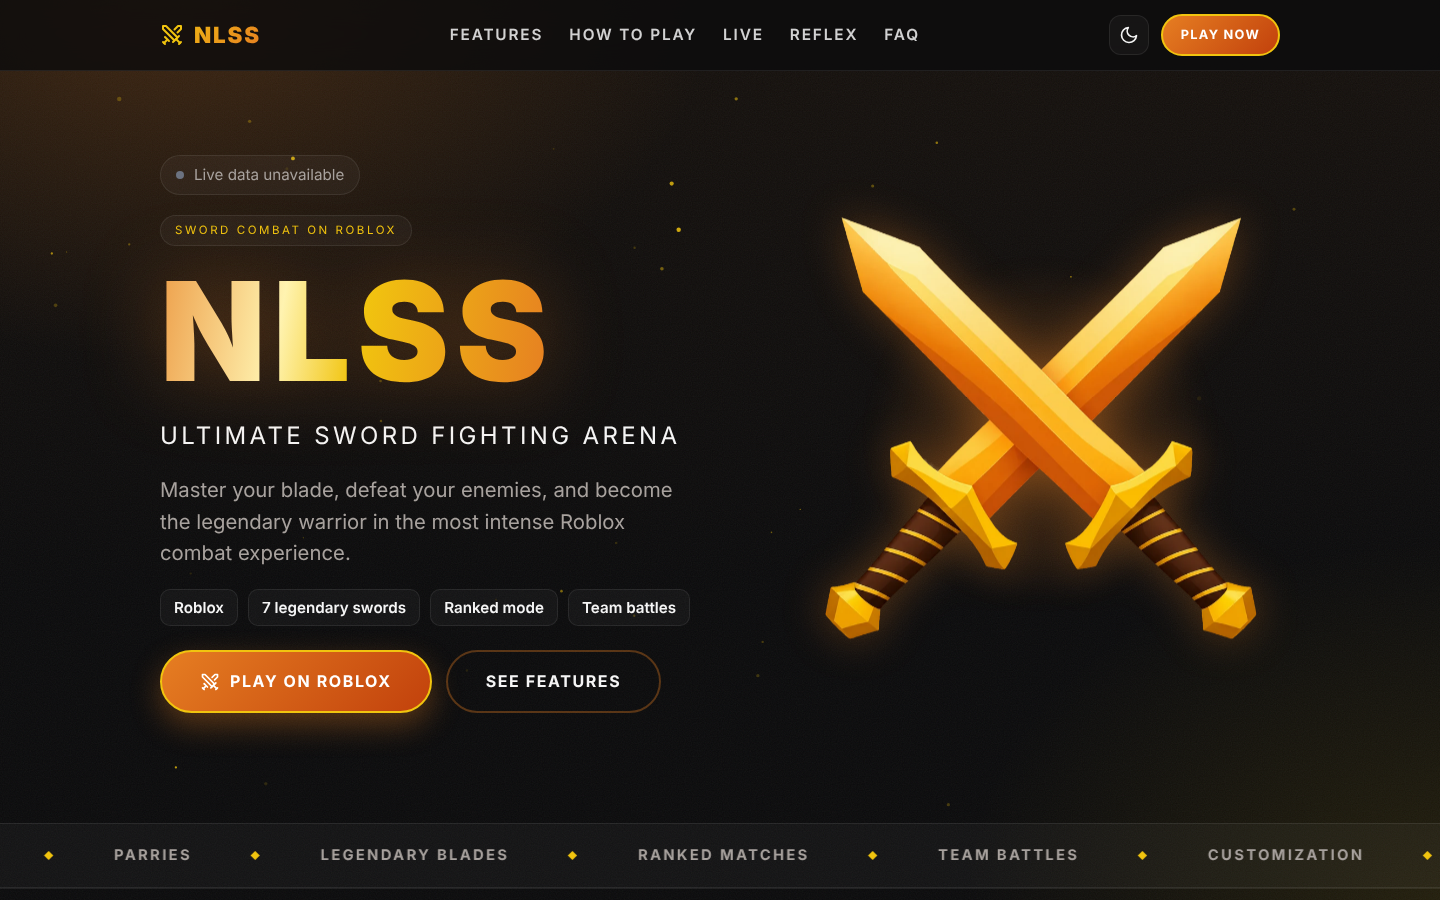
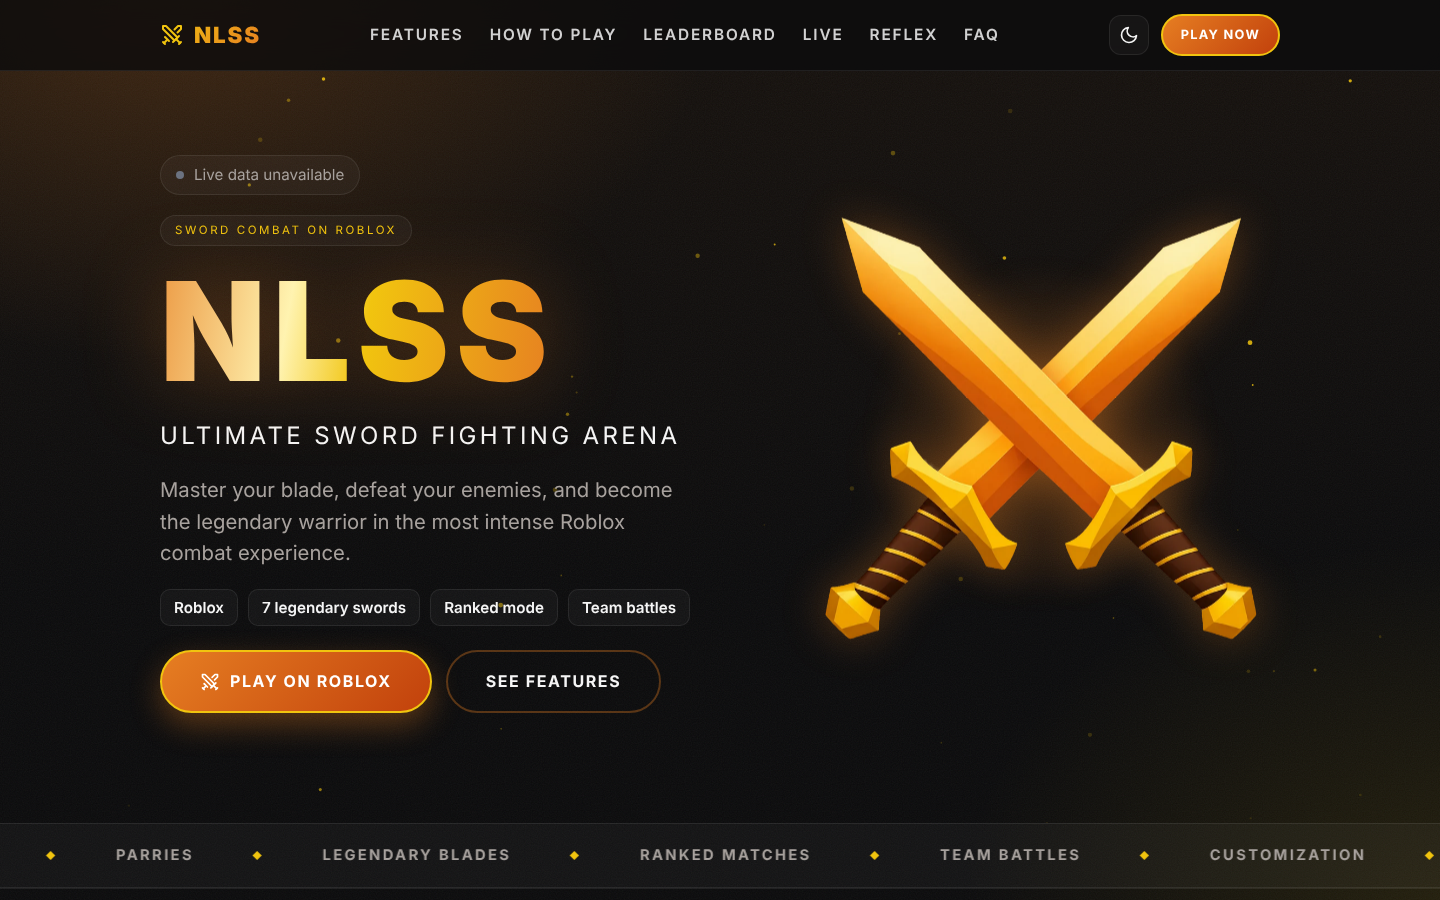
Add leaderboard for strength, kills and rebirths
- Three tabs (keyboard arrows, Home/End supported); each shows the top
  100 in a scrollable list with rank highlights for the top three
- No rankings are published yet, so the page shows an honest empty
  state. Fill the inline INLINE_RANKINGS object or set LEADERBOARD_URL
  to a JSON feed with the same shape
- ?demo=1 previews the design with clearly labelled sample data
- Rows are built with textContent, so names can't inject markup
- Nav collapses to the menu below 1180px so six links fit on one row

diff --git a/_archive/nlss_website_final.html b/_archive/nlss_website_final.html
@@ -793,15 +793,135 @@
     .js .reveal { opacity: 0; transform: translateY(20px); transition: opacity 0.7s ease, transform 0.7s ease; }
     .js .reveal.in { opacity: 1; transform: none; }
 
+    /* ---------- Leaderboard ---------- */
+    .nav a { white-space: nowrap; }
+    .board-panel {
+      max-width: 880px;
+      margin: 0 auto;
+      padding: 26px;
+      border-radius: var(--radius);
+      border: 1px solid var(--line-soft);
+      background: var(--panel);
+      box-shadow: var(--card-shadow);
+    }
+    .board-top {
+      display: flex;
+      flex-wrap: wrap;
+      align-items: center;
+      justify-content: space-between;
+      gap: 16px;
+      margin-bottom: 20px;
+    }
+    .tabs {
+      display: inline-flex;
+      gap: 4px;
+      padding: 5px;
+      border-radius: 999px;
+      border: 1px solid var(--line-soft);
+      background: var(--ink);
+    }
+    .tab {
+      padding: 9px 18px;
+      border: 0;
+      border-radius: 999px;
+      background: transparent;
+      color: var(--muted);
+      font-family: var(--display);
+      font-size: 0.74rem;
+      font-weight: 700;
+      letter-spacing: 0.12em;
+      text-transform: uppercase;
+      cursor: pointer;
+      transition: background 0.2s, color 0.2s;
+    }
+    .tab:hover { color: var(--text); }
+    .tab[aria-selected="true"] {
+      background: linear-gradient(135deg, var(--orange), var(--orange-deep));
+      color: #fff;
+      box-shadow: 0 8px 20px var(--glow);
+    }
+    .board-meta { font-size: 0.92rem; color: var(--muted); }
+    .demo-badge {
+      display: inline-block;
+      padding: 3px 10px;
+      border-radius: 999px;
+      background: rgba(239, 68, 68, 0.15);
+      color: #ef4444;
+      font-size: 0.78rem;
+      letter-spacing: 0.08em;
+      text-transform: uppercase;
+    }
+    .board-scroll {
+      max-height: 560px;
+      overflow-y: auto;
+      padding: 2px 8px 2px 2px;
+      scrollbar-width: thin;
+      scrollbar-color: var(--line) transparent;
+    }
+    .board { list-style: none; display: grid; gap: 10px; }
+    .board li {
+      display: grid;
+      grid-template-columns: 48px minmax(0, 1fr) auto;
+      align-items: center;
+      gap: 14px;
+      padding: 12px 18px;
+      border-radius: 14px;
+      border: 1px solid var(--line-soft);
+      background: var(--ink-2);
+    }
+    .board li.top-1 { border-color: rgba(241, 196, 15, 0.45); }
+    .rank span {
+      display: grid;
+      place-items: center;
+      width: 36px;
+      height: 36px;
+      border-radius: 50%;
+      background: var(--panel-hover);
+      color: var(--muted);
+      font-family: var(--display);
+      font-weight: 900;
+      font-size: 0.9rem;
+    }
+    .top-1 .rank span { background: linear-gradient(135deg, #fde68a, #f59e0b); color: #111; }
+    .top-2 .rank span { background: linear-gradient(135deg, #f3f4f6, #9ca3af); color: #111; }
+    .top-3 .rank span { background: linear-gradient(135deg, #fcd9b6, #c2410c); color: #111; }
+    .board .name {
+      min-width: 0;
+      overflow: hidden;
+      text-overflow: ellipsis;
+      white-space: nowrap;
+      font-weight: 700;
+      font-size: 1.1rem;
+    }
+    .board .value {
+      font-family: var(--display);
+      font-weight: 700;
+      font-variant-numeric: tabular-nums;
+      color: var(--accent-text);
+    }
+    .board-status { padding: 46px 12px; text-align: center; color: var(--muted); font-size: 1.05rem; }
+    .board-status[hidden] { display: none; }
+    @media (max-width: 620px) {
+      .board-panel { padding: 18px; }
+      .tabs { display: flex; width: 100%; }
+      .tab { flex: 1; padding: 9px 6px; font-size: 0.68rem; letter-spacing: 0.06em; }
+      .board-scroll { max-height: 480px; }
+      .board li { grid-template-columns: 40px minmax(0, 1fr) auto; gap: 10px; padding: 10px 12px; }
+      .rank span { width: 32px; height: 32px; }
+      .board .name { font-size: 1rem; }
+    }
+
     /* ---------- Responsive ---------- */
     @media (max-width: 1100px) {
       .nav { gap: 20px; }
       .nav a { font-size: 0.88rem; letter-spacing: 0.1em; }
     }
-    @media (max-width: 980px) {
+    @media (max-width: 1180px) {
       .nav { display: none; }
       .menu-btn { display: grid; }
       .mobile-nav:not([hidden]) { display: flex; }
+    }
+    @media (max-width: 980px) {
       .hero-grid { grid-template-columns: 1fr; text-align: center; gap: 40px; }
       .hero-copy { justify-items: center; }
       .chips, .hero-actions { justify-content: center; }
@@ -873,6 +993,7 @@
       <nav class="nav" aria-label="Primary">
         <a href="#features">Features</a>
         <a href="#how">How to play</a>
+        <a href="#leaderboard">Leaderboard</a>
         <a href="#stats">Live</a>
         <a href="#play">Reflex</a>
         <a href="#faq">FAQ</a>
@@ -891,6 +1012,7 @@
     <nav class="mobile-nav" id="mobile-nav" aria-label="Mobile" hidden>
       <a href="#features">Features</a>
       <a href="#how">How to play</a>
+      <a href="#leaderboard">Leaderboard</a>
       <a href="#stats">Live</a>
       <a href="#play">Reflex</a>
       <a href="#faq">FAQ</a>
@@ -1029,6 +1151,33 @@
       </div>
     </section>
 
+    <section class="section" id="leaderboard" aria-labelledby="board-title">
+      <div class="wrap">
+        <header class="section-head reveal">
+          <span class="eyebrow">Rankings</span>
+          <h2 id="board-title">Leaderboard</h2>
+          <p>The top 100 players in strength, kills and rebirths.</p>
+        </header>
+
+        <div class="board-panel reveal">
+          <div class="board-top">
+            <div class="tabs" role="tablist" aria-label="Leaderboard category">
+              <button class="tab" type="button" role="tab" id="tab-strength" data-cat="strength" aria-selected="true" aria-controls="board-panel" tabindex="0">Strength</button>
+              <button class="tab" type="button" role="tab" id="tab-kills" data-cat="kills" aria-selected="false" aria-controls="board-panel" tabindex="-1">Kills</button>
+              <button class="tab" type="button" role="tab" id="tab-rebirths" data-cat="rebirths" aria-selected="false" aria-controls="board-panel" tabindex="-1">Rebirths</button>
+            </div>
+            <span class="board-meta" id="board-meta"></span>
+          </div>
+          <div role="tabpanel" id="board-panel" aria-labelledby="tab-strength">
+            <div class="board-scroll" id="board-scroll" role="region" tabindex="0" aria-label="Top 100 by strength">
+              <ol class="board" id="board"></ol>
+            </div>
+            <p class="board-status" id="board-status" role="status">Loading rankings…</p>
+          </div>
+        </div>
+      </div>
+    </section>
+
     <section class="section stats" id="stats" aria-labelledby="stats-title">
       <div class="wrap">
         <header class="section-head reveal">
@@ -1160,6 +1309,7 @@
         <nav class="foot-links" aria-label="Footer">
           <a href="#features">Features</a>
           <a href="#how">How to play</a>
+          <a href="#leaderboard">Leaderboard</a>
           <a href="#stats">Live</a>
           <a href="#play">Reflex</a>
           <a href="#faq">FAQ</a>
@@ -1252,7 +1402,7 @@
             if (link) link.setAttribute('aria-current', 'true');
           });
         }, { rootMargin: '-45% 0px -50% 0px' });
-        ['features', 'how', 'stats', 'play', 'faq'].forEach((id) => spy.observe(document.getElementById(id)));
+        ['features', 'how', 'leaderboard', 'stats', 'play', 'faq'].forEach((id) => spy.observe(document.getElementById(id)));
       }
 
       /* ---- Scroll reveal ---- */
@@ -1532,6 +1682,149 @@
             }
           }
         });
+      })();
+
+      /* ---- Leaderboard ----
+         Rankings come from INLINE_RANKINGS, or from LEADERBOARD_URL when set.
+         Expected shape: { updated, strength: [{ name, value }], kills: [...], rebirths: [...] }.
+         Add ?demo=1 to the address to preview the design with clearly labelled sample data. */
+      (function leaderboard() {
+        const LEADERBOARD_URL = '';
+        const INLINE_RANKINGS = { updated: null, strength: [], kills: [], rebirths: [] };
+        const TOP_N = 100;
+        const REFRESH_MS = 5 * 60 * 1000;
+        const fmtValue = new Intl.NumberFormat(undefined, { maximumFractionDigits: 1 });
+        const tabs = [...document.querySelectorAll('#leaderboard .tab')];
+        const board = document.getElementById('board');
+        const boardScroll = document.getElementById('board-scroll');
+        const boardPanel = document.getElementById('board-panel');
+        const statusEl = document.getElementById('board-status');
+        const metaEl = document.getElementById('board-meta');
+        let rankings = null;
+        let state = 'loading';
+        let current = 'strength';
+        let demo = false;
+
+        function clean(list) {
+          if (!Array.isArray(list)) return [];
+          return list
+            .filter((e) => e && typeof e.name === 'string' && e.name.trim() && Number.isFinite(e.value) && e.value >= 0)
+            .map((e) => ({ name: e.name.trim().slice(0, 32), value: e.value }))
+            .sort((a, b) => b.value - a.value || a.name.localeCompare(b.name))
+            .slice(0, TOP_N);
+        }
+
+        function demoRankings() {
+          const label = (i) => `Demo ${String(i + 1).padStart(3, '0')}`;
+          const decay = (top, rate) => Array.from({ length: TOP_N }, (_, i) => ({ name: label(i), value: Math.round(top * Math.pow(rate, i)) }));
+          return {
+            updated: new Date().toISOString(),
+            strength: decay(9800, 0.985),
+            kills: decay(420, 0.982),
+            rebirths: Array.from({ length: TOP_N }, (_, i) => ({ name: label(i), value: Math.max(1, 40 - Math.floor(i / 3)) })),
+          };
+        }
+
+        function row(entry, rank) {
+          const li = document.createElement('li');
+          if (rank <= 3) li.classList.add(`top-${rank}`);
+          const rankCell = document.createElement('span');
+          rankCell.className = 'rank';
+          const badge = document.createElement('span');
+          badge.textContent = String(rank);
+          rankCell.append(badge);
+          const name = document.createElement('span');
+          name.className = 'name';
+          name.textContent = entry.name;
+          name.title = entry.name;
+          const value = document.createElement('span');
+          value.className = 'value';
+          value.textContent = fmtValue.format(entry.value);
+          li.append(rankCell, name, value);
+          return li;
+        }
+
+        function render() {
+          const list = state === 'ready' ? clean(rankings[current]) : [];
+          board.replaceChildren(...list.map((entry, i) => row(entry, i + 1)));
+          statusEl.hidden = list.length > 0;
+          statusEl.textContent = state === 'loading' ? 'Loading rankings…'
+            : state === 'error' ? "Rankings couldn't be loaded right now. Try again later."
+            : 'No rankings published yet.';
+          boardScroll.setAttribute('aria-label', `Top ${TOP_N} by ${current}`);
+
+          metaEl.replaceChildren();
+          if (state === 'ready' && demo) {
+            const badge = document.createElement('span');
+            badge.className = 'demo-badge';
+            badge.textContent = 'Demo data, not real players';
+            metaEl.append(badge);
+          } else if (state === 'ready' && rankings.updated) {
+            const date = new Date(rankings.updated);
+            metaEl.textContent = `Updated ${date.toLocaleDateString(undefined, { day: 'numeric', month: 'short', year: 'numeric' })}`;
+          } else if (state === 'ready') {
+            metaEl.textContent = 'Not published yet';
+          } else if (state === 'error') {
+            metaEl.textContent = 'Unavailable';
+          }
+        }
+
+        async function load() {
+          demo = new URLSearchParams(location.search).get('demo') === '1';
+          try {
+            let data;
+            if (demo) {
+              data = demoRankings();
+            } else if (LEADERBOARD_URL) {
+              const ctl = new AbortController();
+              const timer = setTimeout(() => ctl.abort(), 8000);
+              try {
+                const res = await fetch(LEADERBOARD_URL, { signal: ctl.signal });
+                if (!res.ok) throw new Error(`HTTP ${res.status}`);
+                data = await res.json();
+              } finally {
+                clearTimeout(timer);
+              }
+            } else {
+              data = INLINE_RANKINGS;
+            }
+            if (!data || typeof data !== 'object') throw new Error('bad data');
+            rankings = data;
+            state = 'ready';
+          } catch (err) {
+            state = 'error';
+          }
+          render();
+        }
+
+        function select(tab, moveFocus) {
+          tabs.forEach((t) => {
+            const on = t === tab;
+            t.setAttribute('aria-selected', String(on));
+            t.tabIndex = on ? 0 : -1;
+          });
+          current = tab.dataset.cat;
+          boardPanel.setAttribute('aria-labelledby', tab.id);
+          if (moveFocus) tab.focus();
+          render();
+        }
+
+        tabs.forEach((tab, i) => {
+          tab.addEventListener('click', () => select(tab, false));
+          tab.addEventListener('keydown', (e) => {
+            let next = null;
+            if (e.key === 'ArrowRight') next = tabs[(i + 1) % tabs.length];
+            else if (e.key === 'ArrowLeft') next = tabs[(i - 1 + tabs.length) % tabs.length];
+            else if (e.key === 'Home') next = tabs[0];
+            else if (e.key === 'End') next = tabs[tabs.length - 1];
+            if (next) { e.preventDefault(); select(next, true); }
+          });
+        });
+
+        load();
+        if (LEADERBOARD_URL) {
+          setInterval(() => { if (!document.hidden) load(); }, REFRESH_MS);
+        }
       })();
 
       /* ---- Share / copy link ---- */
